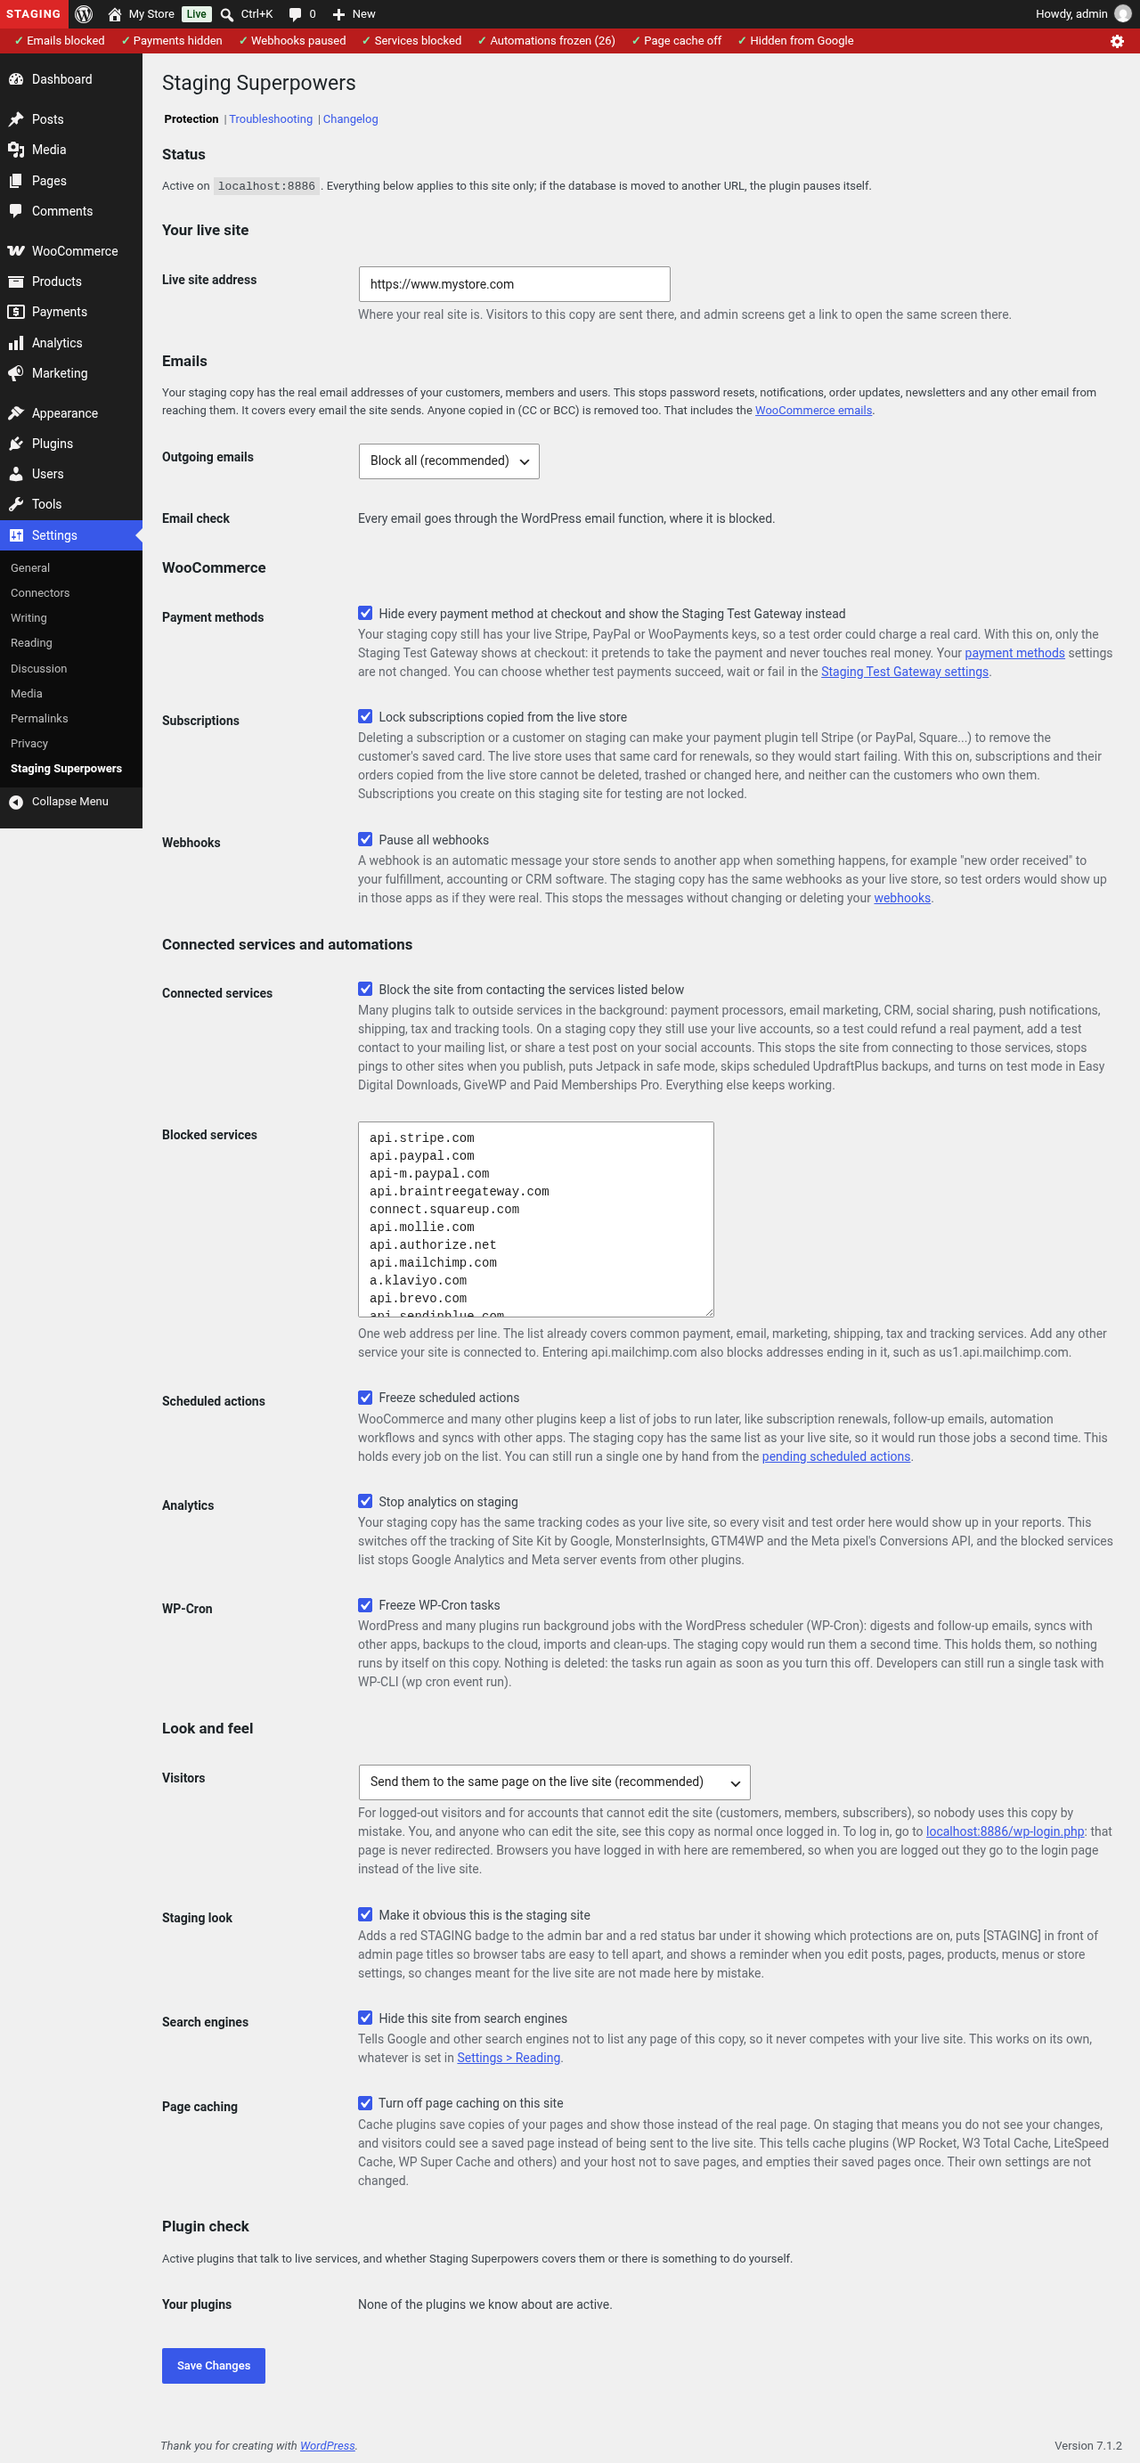
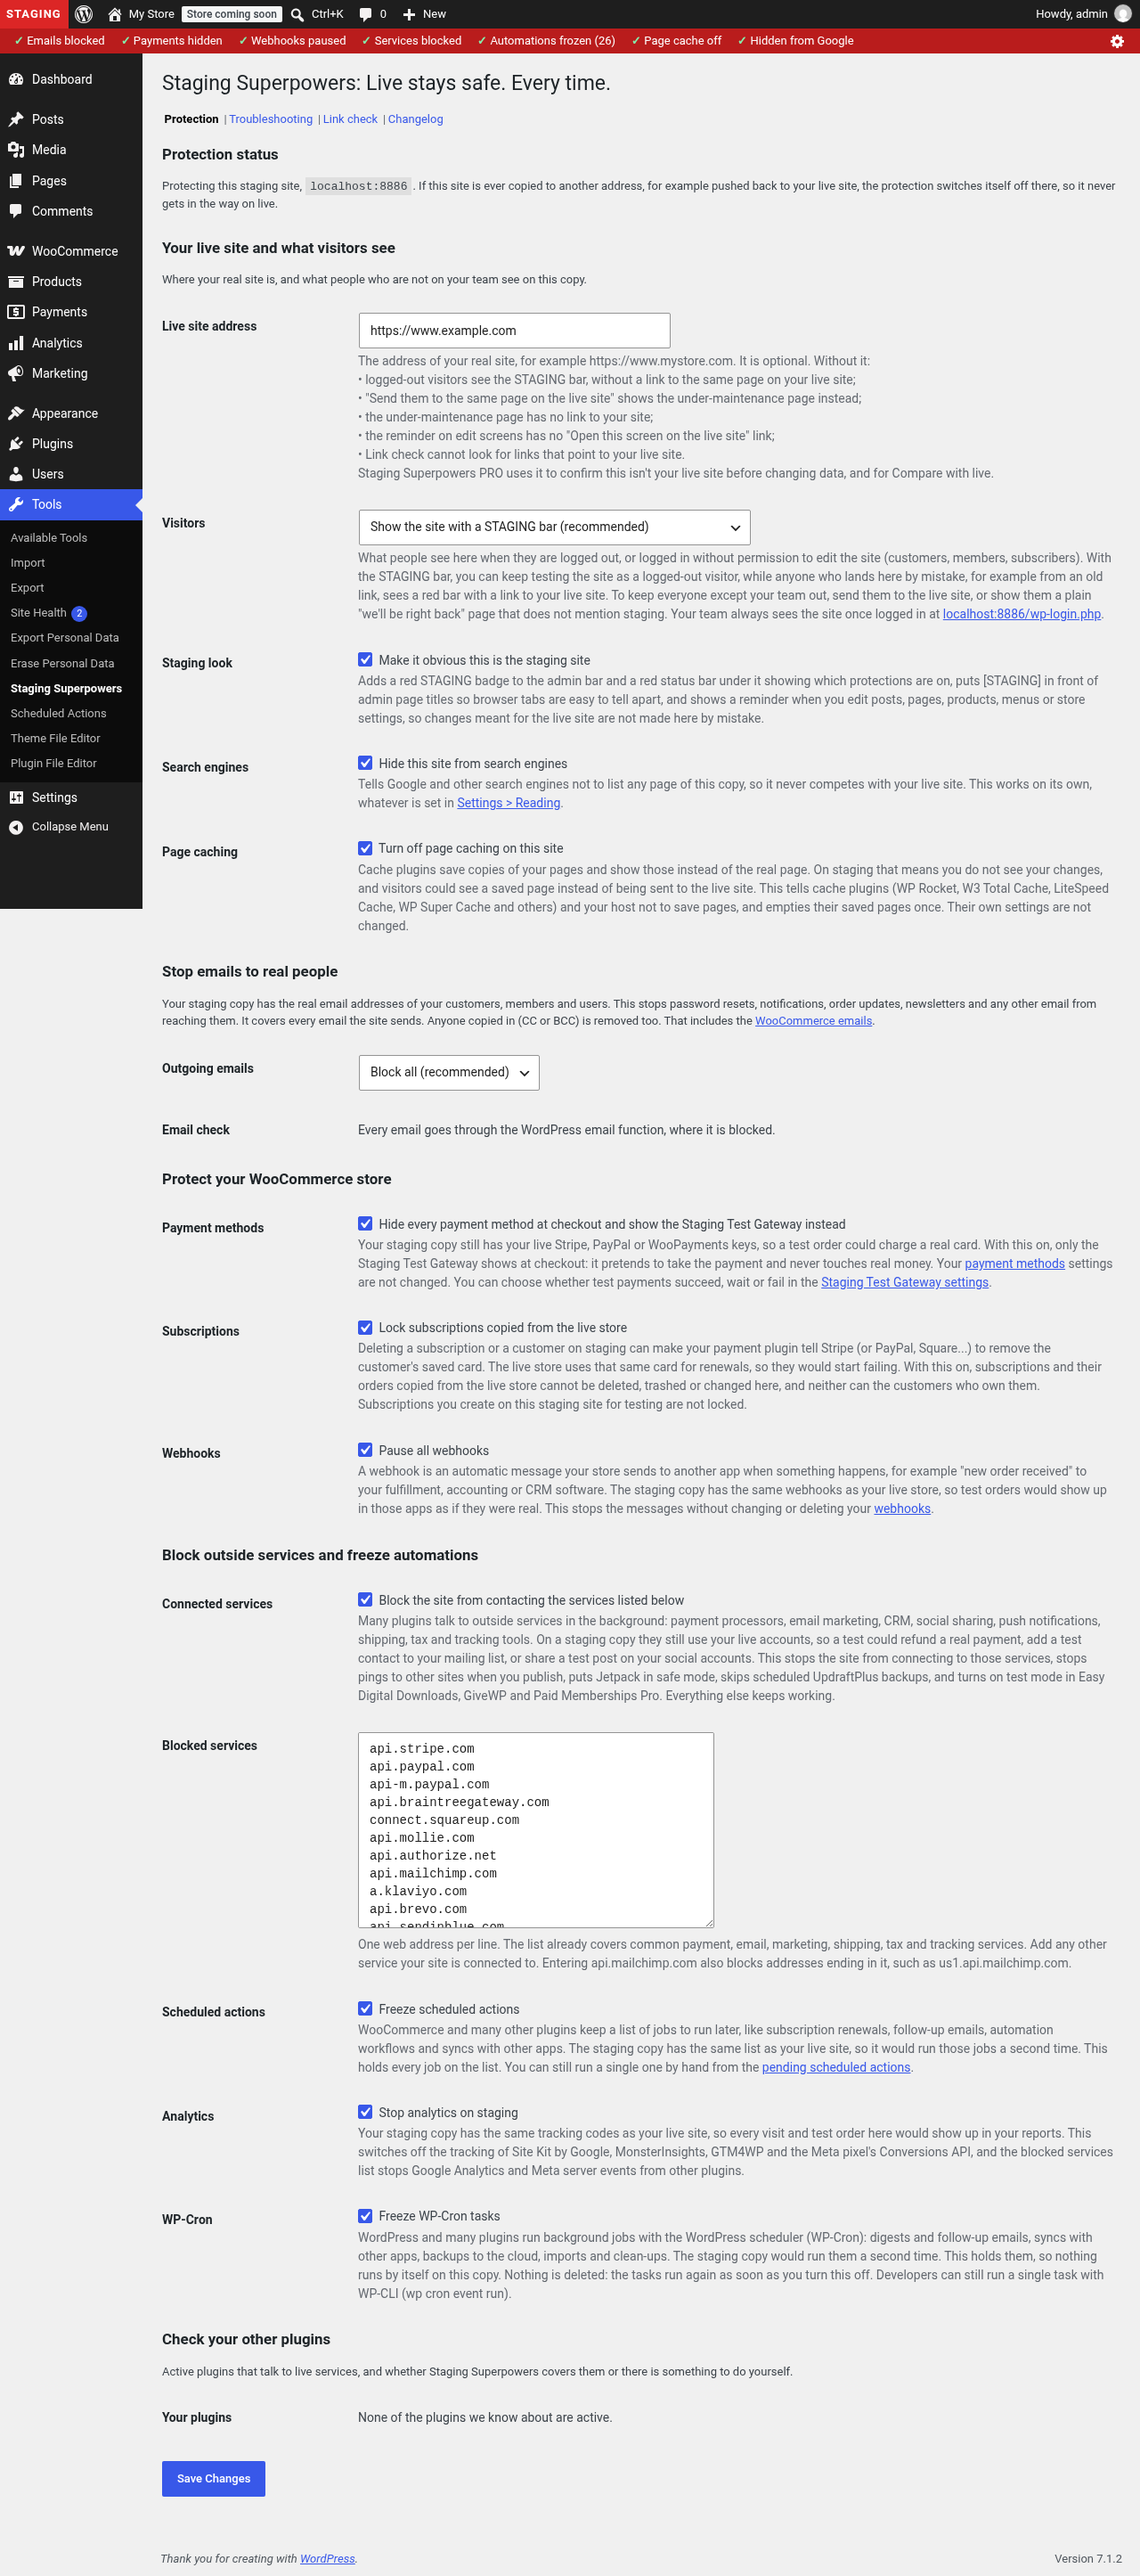
Settings: live site address and visitor settings in one section at the top
The live address is explained as optional, with exactly what changes without
it, and that PRO uses it. The live site option says it needs the address.
New screenshot 2 and 1.1.1 changelog line.

diff --git a/includes/sspw-settings.php b/includes/sspw-settings.php
@@ -303,7 +303,13 @@ function sspw_link( $key, $text ) {
 function sspw_live_url_field() {
 	$field = array(
 		'title'       => __( 'Live site address', 'staging-superpowers' ),
-		'desc'        => __( 'The address of your real site, for example https://www.mystore.com.', 'staging-superpowers' ),
+		'desc'        => esc_html__( 'The address of your real site, for example https://www.mystore.com. It is optional. Without it:', 'staging-superpowers' ) .
+			'<br>&bull; ' . esc_html__( 'logged-out visitors see the STAGING bar, without a link to the same page on your live site;', 'staging-superpowers' ) .
+			'<br>&bull; ' . esc_html__( '"Send them to the same page on the live site" shows the under-maintenance page instead;', 'staging-superpowers' ) .
+			'<br>&bull; ' . esc_html__( 'the under-maintenance page has no link to your site;', 'staging-superpowers' ) .
+			'<br>&bull; ' . esc_html__( 'the reminder on edit screens has no "Open this screen on the live site" link;', 'staging-superpowers' ) .
+			'<br>&bull; ' . esc_html__( 'Link check cannot look for links that point to your live site.', 'staging-superpowers' ) .
+			'<br>' . esc_html__( 'Staging Superpowers PRO uses it to confirm this isn\'t your live site before changing data, and for Compare with live.', 'staging-superpowers' ),
 		'id'          => 'sspw_live_url',
 		'type'        => 'url',
 		'default'     => '',
@@ -314,7 +320,7 @@ function sspw_live_url_field() {
 		$detected = sspw_detect_live_url();
 		if ( $detected ) {
 			$field['default'] = $detected;
-			$field['desc']   .= ' <strong>' . esc_html__( 'We filled this in from your site data. Check it is right, then click Save Changes to use it.', 'staging-superpowers' ) . '</strong>';
+			$field['desc']   .= '<br><strong>' . esc_html__( 'We filled this in from your site data. Check it is right, then click Save Changes to use it.', 'staging-superpowers' ) . '</strong>';
 		}
 	}
 
@@ -407,12 +413,53 @@ function sspw_settings_fields() {
 		),
 
 		array(
-			'title' => __( 'Where is your live site?', 'staging-superpowers' ),
+			'title' => __( 'Your live site and what visitors see', 'staging-superpowers' ),
 			'type'  => 'title',
-			'desc'  => __( 'So this copy can point people to the real thing: logged-out visitors are sent to the same page on your live site, and the reminder on edit screens gets a link to open that screen on live.', 'staging-superpowers' ),
+			'desc'  => __( 'Where your real site is, and what people who are not on your team see on this copy.', 'staging-superpowers' ),
 			'id'    => 'sspw_live_section',
 		),
 		sspw_live_url_field(),
+		array(
+			'title'   => __( 'Visitors', 'staging-superpowers' ),
+			'desc'    => sspw_visitors_description(),
+			'id'      => 'sspw_visitors',
+			'type'    => 'select',
+			'css'     => 'min-width:440px;',
+			'default' => 'bar',
+			'options' => array(
+				'bar'      => __( 'Show the site with a STAGING bar (recommended)', 'staging-superpowers' ),
+				'redirect' => __( 'Send them to the same page on the live site (needs the live site address)', 'staging-superpowers' ),
+				'lock'     => __( 'Show an under-maintenance page', 'staging-superpowers' ),
+			),
+		),
+		array(
+			'title'    => __( 'Staging look', 'staging-superpowers' ),
+			'desc'     => __( 'Make it obvious this is the staging site', 'staging-superpowers' ),
+			'desc_tip' => __( 'Adds a red STAGING badge to the admin bar and a red status bar under it showing which protections are on, puts [STAGING] in front of admin page titles so browser tabs are easy to tell apart, and shows a reminder when you edit posts, pages, products, menus or store settings, so changes meant for the live site are not made here by mistake.', 'staging-superpowers' ),
+			'id'       => 'sspw_look',
+			'type'     => 'checkbox',
+			'default'  => 'yes',
+		),
+		array(
+			'title'    => __( 'Search engines', 'staging-superpowers' ),
+			'desc'     => __( 'Hide this site from search engines', 'staging-superpowers' ),
+			'desc_tip' => sprintf(
+				/* translators: %s: link to Settings > Reading */
+				__( 'Tells Google and other search engines not to list any page of this copy, so it never competes with your live site. This works on its own, whatever is set in %s.', 'staging-superpowers' ),
+				sspw_link( 'reading', __( 'Settings > Reading', 'staging-superpowers' ) )
+			),
+			'id'       => 'sspw_noindex',
+			'type'     => 'checkbox',
+			'default'  => 'yes',
+		),
+		array(
+			'title'    => __( 'Page caching', 'staging-superpowers' ),
+			'desc'     => __( 'Turn off page caching on this site', 'staging-superpowers' ),
+			'desc_tip' => __( 'Cache plugins save copies of your pages and show those instead of the real page. On staging that means you do not see your changes, and visitors could see a saved page instead of being sent to the live site. This tells cache plugins (WP Rocket, W3 Total Cache, LiteSpeed Cache, WP Super Cache and others) and your host not to save pages, and empties their saved pages once. Their own settings are not changed.', 'staging-superpowers' ),
+			'id'       => 'sspw_no_cache',
+			'type'     => 'checkbox',
+			'default'  => 'yes',
+		),
 		array(
 			'type' => 'sectionend',
 			'id'   => 'sspw_live_section',
@@ -521,57 +568,6 @@ function sspw_settings_fields() {
 	return array_merge(
 		$fields,
 		array(
-			array(
-				'title' => __( 'Visitors, search engines and the staging look', 'staging-superpowers' ),
-				'type'  => 'title',
-				'id'    => 'sspw_look_section',
-			),
-			array(
-				'title'   => __( 'Visitors', 'staging-superpowers' ),
-				'desc'    => sspw_visitors_description(),
-				'id'      => 'sspw_visitors',
-				'type'    => 'select',
-				'css'     => 'min-width:440px;',
-				'default' => 'bar',
-				'options' => array(
-					'bar'      => __( 'Show the site with a STAGING bar (recommended)', 'staging-superpowers' ),
-					'redirect' => __( 'Send them to the same page on the live site', 'staging-superpowers' ),
-					'lock'     => __( 'Show an under-maintenance page', 'staging-superpowers' ),
-				),
-			),
-			array(
-				'title'    => __( 'Staging look', 'staging-superpowers' ),
-				'desc'     => __( 'Make it obvious this is the staging site', 'staging-superpowers' ),
-				'desc_tip' => __( 'Adds a red STAGING badge to the admin bar and a red status bar under it showing which protections are on, puts [STAGING] in front of admin page titles so browser tabs are easy to tell apart, and shows a reminder when you edit posts, pages, products, menus or store settings, so changes meant for the live site are not made here by mistake.', 'staging-superpowers' ),
-				'id'       => 'sspw_look',
-				'type'     => 'checkbox',
-				'default'  => 'yes',
-			),
-			array(
-				'title'    => __( 'Search engines', 'staging-superpowers' ),
-				'desc'     => __( 'Hide this site from search engines', 'staging-superpowers' ),
-				'desc_tip' => sprintf(
-					/* translators: %s: link to Settings > Reading */
-					__( 'Tells Google and other search engines not to list any page of this copy, so it never competes with your live site. This works on its own, whatever is set in %s.', 'staging-superpowers' ),
-					sspw_link( 'reading', __( 'Settings > Reading', 'staging-superpowers' ) )
-				),
-				'id'       => 'sspw_noindex',
-				'type'     => 'checkbox',
-				'default'  => 'yes',
-			),
-			array(
-				'title'    => __( 'Page caching', 'staging-superpowers' ),
-				'desc'     => __( 'Turn off page caching on this site', 'staging-superpowers' ),
-				'desc_tip' => __( 'Cache plugins save copies of your pages and show those instead of the real page. On staging that means you do not see your changes, and visitors could see a saved page instead of being sent to the live site. This tells cache plugins (WP Rocket, W3 Total Cache, LiteSpeed Cache, WP Super Cache and others) and your host not to save pages, and empties their saved pages once. Their own settings are not changed.', 'staging-superpowers' ),
-				'id'       => 'sspw_no_cache',
-				'type'     => 'checkbox',
-				'default'  => 'yes',
-			),
-			array(
-				'type' => 'sectionend',
-				'id'   => 'sspw_look_section',
-			),
-
 			array(
 				'title' => __( 'Check your other plugins', 'staging-superpowers' ),
 				'type'  => 'title',
